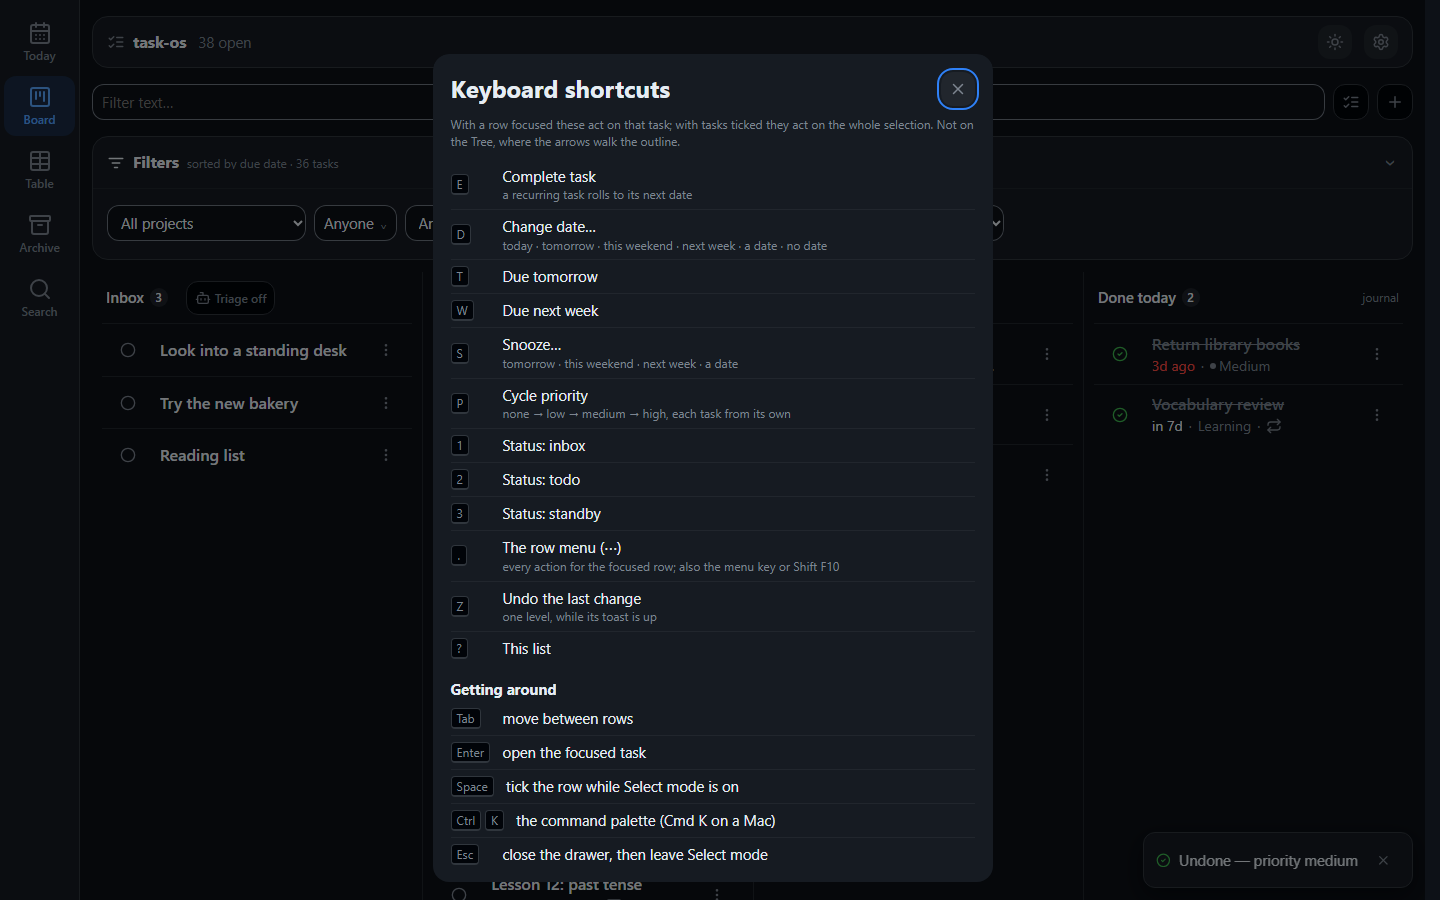
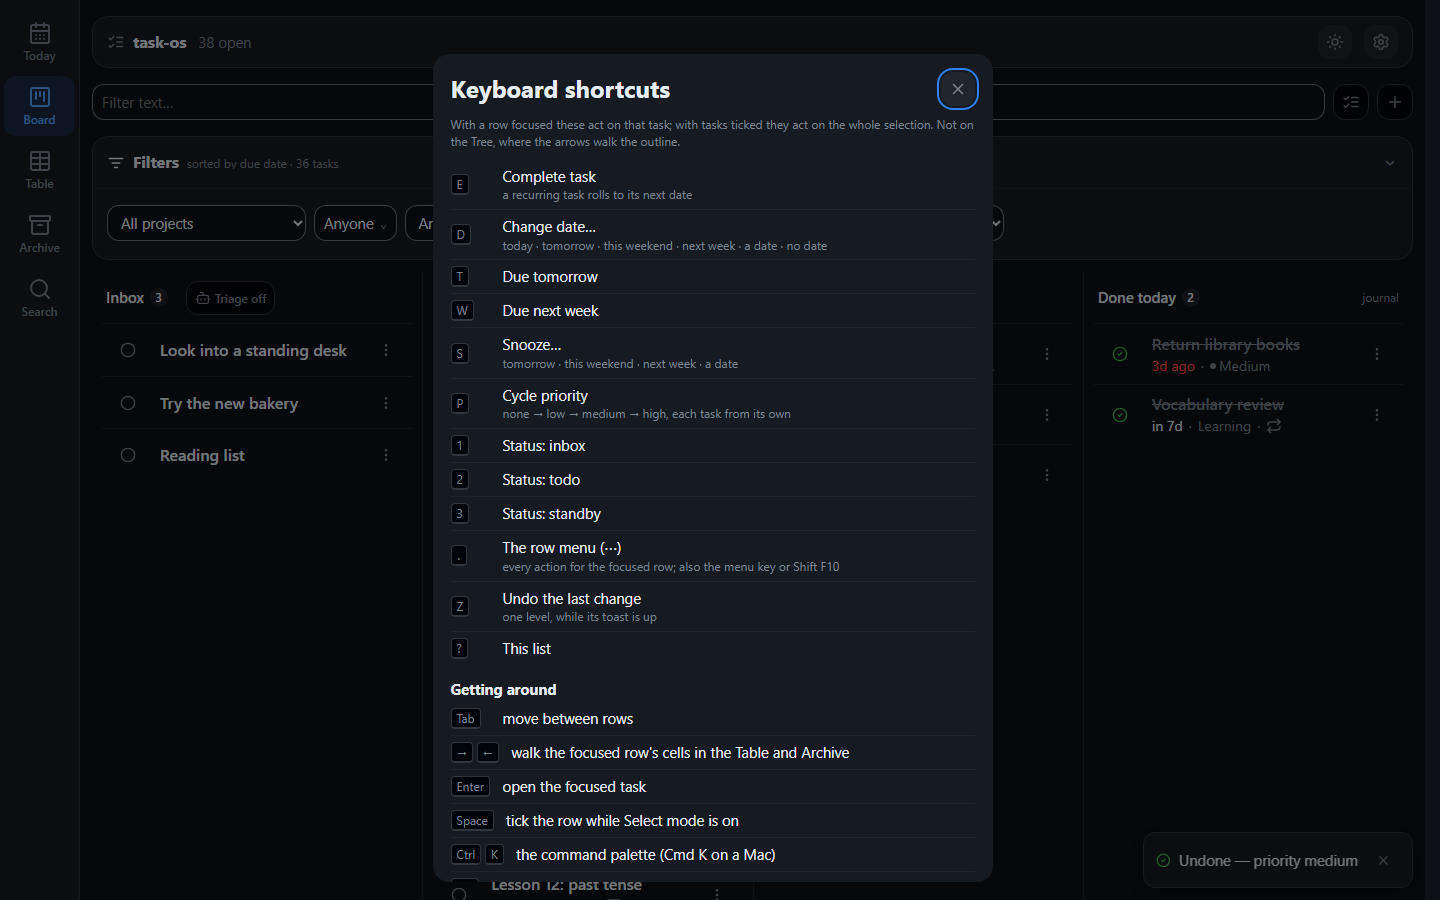
fix: make the Table and Archive tables ARIA data grids (#339) (#341)
- both desktop tables are spreadsheets: a cell's due picker, status
  select, link chips and Accept / Move buttons are its widgets, not a
  list row's actions (design.md: a list is not a spreadsheet), so
  they are role=grid with a label
- gridnav.js gives them the grid's keyboard: arrows and Home / End
  across rows, -> and <- through a row's controls and back; the
  Table's own up / down moved there, Archive rows are now focusable
- story 04 and 24 walk a row's every control by keyboard (red
  before: not a grid); the shortcuts sheet lists the walk

Claude-Session: https://claude.ai/code/session_0172Apg4F9VSBxsAwLVqm2RB

Changed region(s): [[0.3125, 0.8089, 0.5938, 0.9644]]

diff --git a/app/webapp/static/gridnav.js b/app/webapp/static/gridnav.js
@@ -1,0 +1,85 @@
+/* task-os — the keyboard walk of a data grid (#339).
+ *
+ * The desktop Table and the Archive table are data tables, not action lists:
+ * every cell holds a value, and some values are live — the due picker, the
+ * status select, a link chip, a mail's Accept / Move buttons. They are ARIA
+ * grids, so those controls are the cells' widgets rather than a list row's
+ * action budget (design.md action-row: "a list is not a spreadsheet"), and
+ * the keyboard reaches them the grid way:
+ *
+ *   on a row       ↓ ↑  next / previous row     Home / End  first / last row
+ *                  →    the row's first control
+ *   on a control   → ←  next / previous control in the row; ← from the first
+ *                       one goes back to the row
+ *
+ * A select keeps ↑ ↓ (they change its value) and passes → ← on; a text field
+ * would keep every arrow (its caret's). Esc is left alone: it already closes
+ * the folder popover, the drawer and Select mode. Tab still walks the rows,
+ * as the shortcuts sheet says.
+ */
+
+'use strict';
+
+/** A row's cell widgets. The due cell's native date input is the picker's
+ *  hidden proxy, never a stop of its own. */
+const CONTROLS = 'a[href], button:not([disabled]), select:not([disabled]), '
+  + 'input:not([type="hidden"]):not(.due-date), textarea';
+/** Widgets whose → ← are their own (the caret's). */
+const OWN_ARROWS = 'input:not([type="checkbox"]), textarea';
+
+/**
+ * Mark `table` as a data grid named `label` and give its body rows the walk.
+ * Rows take part when they are focusable (`tabIndex = 0`) and shown.
+ * @param {HTMLTableElement} table
+ * @param {string} label
+ */
+export function markGrid(table, label) {
+  table.setAttribute('role', 'grid');
+  table.setAttribute('aria-label', label);
+  table.addEventListener('keydown', onKey);
+}
+
+function rowsOf(row) {
+  return Array.from(row.parentElement.children).filter(function (r) {
+    return r.tabIndex >= 0 && !r.hidden;
+  });
+}
+
+function controlsOf(row) {
+  return Array.from(row.querySelectorAll(CONTROLS)).filter(function (el) {
+    return el.getClientRects().length > 0;
+  });
+}
+
+function go(el) {
+  if (!el) return;
+  el.focus();
+  el.scrollIntoView({ block: 'nearest', inline: 'nearest' });
+}
+
+function onKey(ev) {
+  if (ev.defaultPrevented || ev.altKey || ev.ctrlKey || ev.metaKey || ev.shiftKey) return;
+  const row = ev.target.closest('tbody > tr');
+  if (!row || row.tabIndex < 0) return;
+  let to = null;
+  if (ev.target === row) {
+    const rows = rowsOf(row);
+    const i = rows.indexOf(row);
+    if (ev.key === 'ArrowDown') to = rows[i + 1];
+    else if (ev.key === 'ArrowUp') to = rows[i - 1];
+    else if (ev.key === 'Home') to = rows[0];
+    else if (ev.key === 'End') to = rows[rows.length - 1];
+    else if (ev.key === 'ArrowRight') to = controlsOf(row)[0];
+    else return;
+  } else {
+    const own = ev.target.matches(OWN_ARROWS);
+    const ctl = controlsOf(row);
+    const i = ctl.indexOf(ev.target);
+    if (own || i < 0) return;
+    if (ev.key === 'ArrowRight') to = ctl[i + 1];
+    else if (ev.key === 'ArrowLeft') to = i === 0 ? row : ctl[i - 1];
+    else return;
+  }
+  ev.preventDefault();
+  go(to);
+}

diff --git a/app/webapp/static/table.js b/app/webapp/static/table.js
@@ -13,6 +13,9 @@
  * task row (rows.js) — identical to the Board's rows. The caller decides
  * which (`opts.phone`) and re-renders when the breakpoint flips.
  *
+ * The desktop grid is an ARIA data grid (gridnav.js, #339): its live cells
+ * are cell widgets, reached from a focused row with the arrow keys.
+ *
  * Filters and sort live in the shared filter card (filters.js); the list
  * arrives already filtered and sorted.
  */
@@ -25,6 +28,7 @@ import {
   PRIORITIES, aiChip, blockedLabel, breadcrumbText, chipFor, isBlocked, isDeferred, issueChip,
   linkify, priorityLabel, relDue, startsLabel, statusPill,
 } from './format.js';
+import { markGrid } from './gridnav.js';
 import { recurrenceLabel } from './recurrence.js';
 import { rowList, statusSelect } from './rows.js';
 
@@ -71,6 +75,7 @@ export function renderTable(host, items, handlers, opts) {
   scroller.className = 'table-scroll';
   const table = document.createElement('table');
   table.className = 'task-table' + (selectable ? ' is-selectable' : '');
+  markGrid(table, 'Tasks');
   const thead = document.createElement('thead');
   const hr = document.createElement('tr');
   if (selectable) {
@@ -263,8 +268,7 @@ function buildRow(t, handlers, rowHandlers, selectable, selected) {
   tr.addEventListener('keydown', function (ev) {
     if (ev.target !== tr) return;
     if (ev.key === 'Enter' || ev.key === ' ') { ev.preventDefault(); activate(); }
-    if (ev.key === 'ArrowDown' && tr.nextElementSibling) { ev.preventDefault(); tr.nextElementSibling.focus(); }
-    if (ev.key === 'ArrowUp' && tr.previousElementSibling) { ev.preventDefault(); tr.previousElementSibling.focus(); }
+    // ↑ ↓ Home End and the walk into the cells: gridnav.js
   });
   return tr;
 }

diff --git a/app/webapp/static/archive.js b/app/webapp/static/archive.js
@@ -45,6 +45,7 @@ import { api } from './api.js';
 import { confirmDialog } from './confirm.js';
 import { mountFolderPicker, resolveFolderRef } from './folderpick.js';
 import { codeEl, fmtTsShort, folderChip, pct, statusPart } from './format.js';
+import { markGrid } from './gridnav.js';
 import { toast } from './toast.js';
 
 const RUNS_LIMIT = 20;
@@ -697,6 +698,7 @@ export function mountArchive(opts) {
     scroll.className = 'table-scroll';
     const table = document.createElement('table');
     table.className = 'task-table archive-table';
+    markGrid(table, 'Archived mails');
     const thead = document.createElement('thead');
     const hrow = document.createElement('tr');
     COLUMNS.forEach(function (label) {
@@ -711,6 +713,8 @@ export function mountArchive(opts) {
       const tr = document.createElement('tr');
       tr.className = 'archive-row';
       tr.dataset.id = String(item.id);
+      tr.tabIndex = 0;       // a grid row: the arrow walk starts here (gridnav.js)
+      tr.setAttribute('aria-label', item.subject || '(no subject)');
       tr.dataset.status = item.status;
       // The panel's own full-width row, right under this one, so opening it
       // never changes a single column's width.

diff --git a/app/webapp/static/keys.js b/app/webapp/static/keys.js
@@ -38,6 +38,7 @@ const OWNS_ITS_KEYS = '.snooze, .snooze-pop, .row-menu, .msel, .folder-picker, .
 /** The keys that are not row actions — shown in the sheet, handled elsewhere. */
 const GETTING_AROUND = [
   ['Tab', 'move between rows'],
+  ['→ ←', 'walk the focused row\'s cells in the Table and Archive'],
   ['Enter', 'open the focused task'],
   ['Space', 'tick the row while Select mode is on'],
   ['Ctrl K', 'the command palette (Cmd K on a Mac)'],

diff --git a/tests/e2e/conftest.py b/tests/e2e/conftest.py
@@ -49,6 +49,7 @@ from __future__ import annotations
 
 import json
 import os
+import re
 import shutil
 import signal
 import socket
@@ -704,6 +705,54 @@ _CONTROL_BOUNDARIES_JS = """(root) => {
   });
   return out;
 }"""
+
+
+#: A grid row's cell widgets, as gridnav.js walks them (the due picker's hidden
+#: native input is its proxy, not a stop).
+_GRID_CONTROLS = ('a[href], button:not([disabled]), select:not([disabled]), '
+                  'input:not([type="hidden"]):not(.due-date), textarea')
+
+
+# Every box on the page that is scrolled (the window's included) remembers
+# where, on itself; restoring puts each back and every other box at 0, 0.
+_SAVE_SCROLLS_JS = """() => [document.scrollingElement, ...document.querySelectorAll('body *')]
+  .forEach(el => { if (el.scrollLeft || el.scrollTop) el.dataset.e2eScroll = el.scrollLeft + ',' + el.scrollTop; })"""
+_RESTORE_SCROLLS_JS = """() => { document.activeElement.blur();
+  [document.scrollingElement, ...document.querySelectorAll('body *')].forEach(el => {
+    const [x, y] = (el.dataset.e2eScroll || '0,0').split(',').map(Number); delete el.dataset.e2eScroll;
+    if (el.scrollLeft !== x || el.scrollTop !== y) el.scrollTo(x, y); }); }"""
+
+
+def assert_grid_walk(row: Locator) -> int:
+    """*row* sits in an ARIA data grid and the keyboard reaches each of its controls (#339).
+
+    A data table's live cells are cell widgets, not a list row's action budget
+    (design.md action-row): from the focused row, → visits every visible
+    control in order and ← walks back to the row. Leaves nothing focused and every scroller
+    where it was, so a shot after the walk is the shot before it. Returns how
+    many controls the row holds.
+    """
+    page = row.page
+    page.evaluate(_SAVE_SCROLLS_JS)
+    assert row.evaluate("r => r.closest('table').getAttribute('role')") == "grid", "the table is not an ARIA grid"
+    expect(row.locator("xpath=ancestor::table[1]")).to_have_attribute("aria-label", re.compile(r"\S"))
+    controls = row.evaluate(
+        "(r, sel) => [...r.querySelectorAll(sel)].filter(c => c.getClientRects().length).length", _GRID_CONTROLS
+    )
+    assert controls, "the row holds no control to walk"
+    is_row = "r => document.activeElement === r"
+    nth = "(r, [sel, i]) => document.activeElement === [...r.querySelectorAll(sel)].filter(c => c.getClientRects().length)[i]"
+    row.focus()
+    for i in range(controls):
+        page.keyboard.press("ArrowRight")
+        assert row.evaluate(nth, [_GRID_CONTROLS, i]), f"→ #{i + 1} did not reach the row's control {i + 1}/{controls}"
+    for i in range(controls - 2, -1, -1):
+        page.keyboard.press("ArrowLeft")
+        assert row.evaluate(nth, [_GRID_CONTROLS, i]), f"← did not step back to control {i + 1}"
+    page.keyboard.press("ArrowLeft")
+    assert row.evaluate(is_row), "← from the first control did not return to the row"
+    page.evaluate(_RESTORE_SCROLLS_JS)
+    return controls
 
 
 def assert_control_boundaries(scope: Locator) -> list[float]:

diff --git a/tests/e2e/test_story_04_triage.py b/tests/e2e/test_story_04_triage.py
@@ -82,7 +82,15 @@ from tests.e2e._geometry import (
     assert_no_horizontal_overflow,
     assert_no_overlap,
 )
-from tests.e2e.conftest import E2E_ANCHOR, _get, dismiss_toasts, shot, table_view, tree_view
+from tests.e2e.conftest import (
+    E2E_ANCHOR,
+    _get,
+    assert_grid_walk,
+    dismiss_toasts,
+    shot,
+    table_view,
+    tree_view,
+)
 
 DESKTOP = {"width": 1440, "height": 900}
 PHONE = {"width": 390, "height": 844}
@@ -195,6 +203,11 @@ def test_desktop_triage(seeded_webapp: str, browser: Browser, playwright: Playwr
         assert_no_overlap(title_chips)
         assert_no_horizontal_overflow(page)
         shot(page, shots / "story-04-triage-1-desktop.png")
+        # #339: the grid is an ARIA data grid, its live cells (the issue chip,
+        # due, status, the folder and AI chips) reached from the row by the
+        # arrow keys rather than counted as a list row's actions
+        coding = page.locator(".task-table .task-row", has=page.locator(".t-title a.chip")).first
+        assert assert_grid_walk(coding) >= 4
 
         # 2. Change a due date inline — one click on the cell opens the date
         # picker (#107), where it used to swap the cell for a text box you had

diff --git a/tests/e2e/test_story_24_archive.py b/tests/e2e/test_story_24_archive.py
@@ -74,6 +74,7 @@ from tests.e2e.conftest import (
     _boot,
     _get,
     _terminate,
+    assert_grid_walk,
     dismiss_toasts,
     e2e_workdir,
     shot,
@@ -475,6 +476,11 @@ def test_story_24_archive(archive_webapp: ArchiveInstance, browser: Browser, sho
     dismiss_toasts(page)
     _pin_scroller(page)
     shot(page, shots / "story-24-archive-4-desktop.png")
+    # #339: the Archive table is an ARIA data grid too: a row's destination,
+    # file chips and its Accept / Move / Retry buttons are reached from the
+    # row by the arrow keys, every one of them, rather than counted as a
+    # list row's actions
+    assert assert_grid_walk(offering.first.locator("xpath=ancestor::tr[1]")) >= 2
 
     # 6. The mail the ranking would not decide: open its menu, the candidates it
     #    ranked are there, type why, and file it into one of them.
